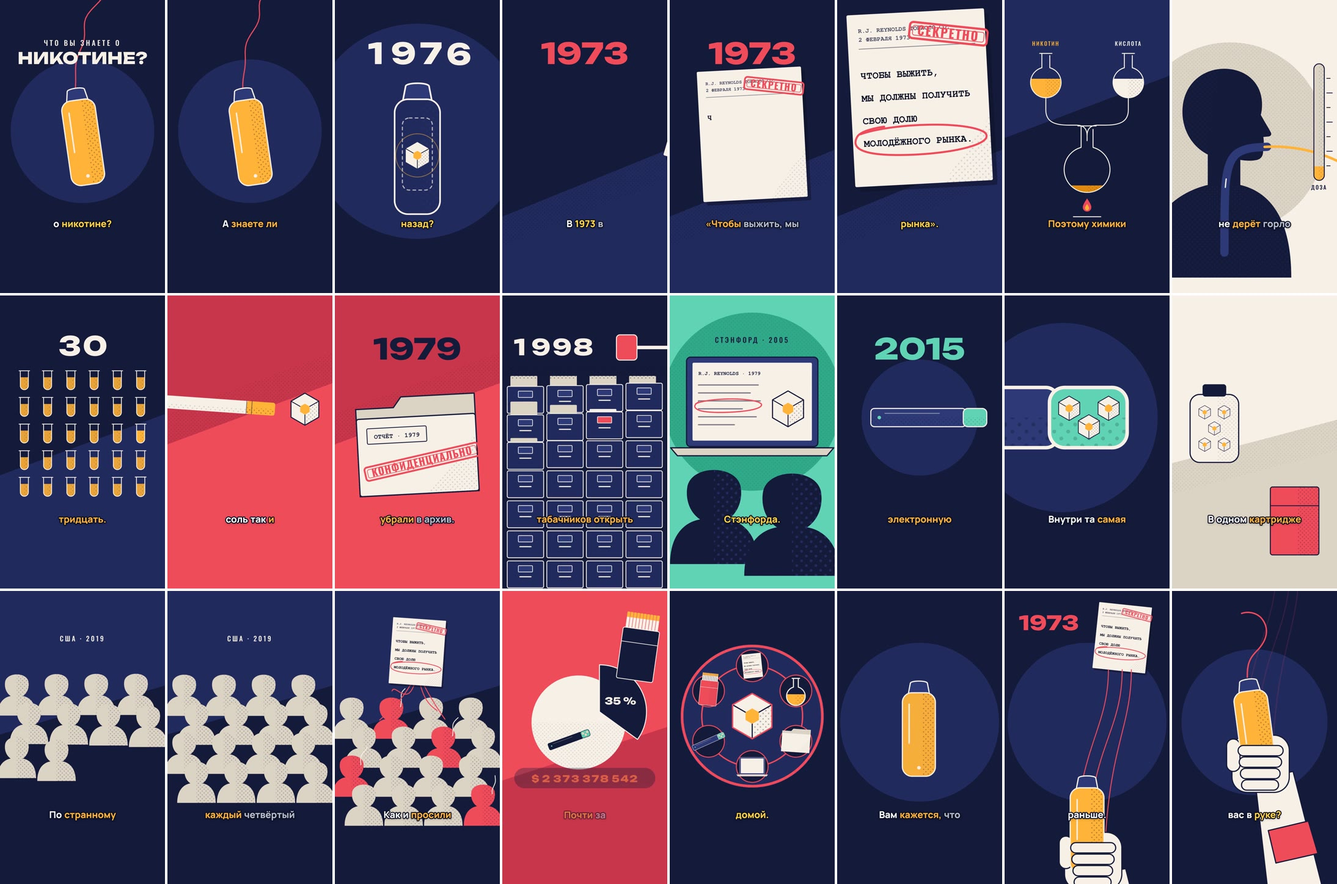
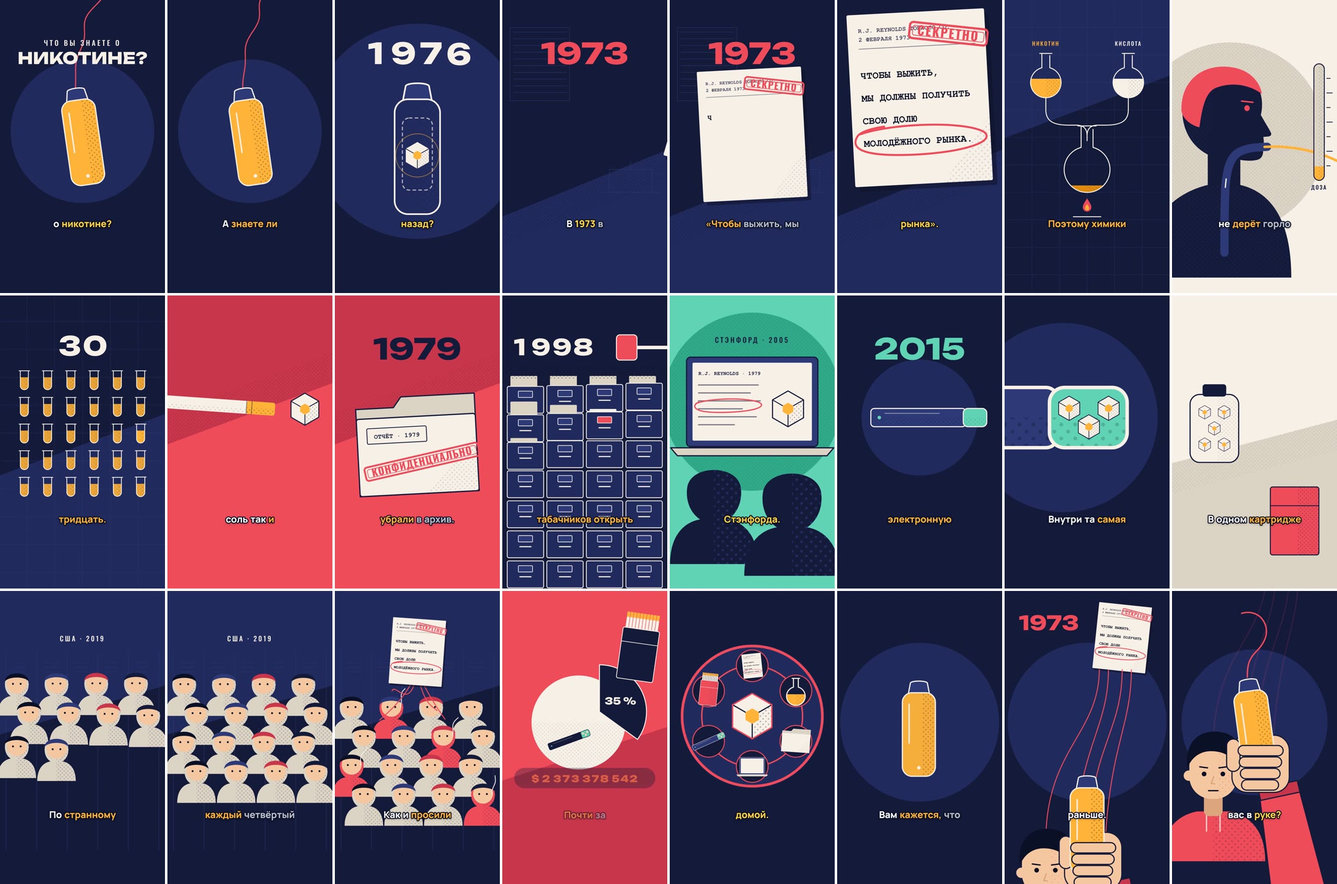
Ролики v11.2: по всем 13 оригиналам — герой с лицом, рука со штампом, место действия контуром, музыка без пауз
Claude-Session: https://claude.ai/code/session_011UjWN6ZJoZuZKvDiL5ZMJ5

diff --git a/ролики-v11/shorts/ep/nicf.js b/ролики-v11/shorts/ep/nicf.js
@@ -109,7 +109,7 @@
   function head(x, y, s, o = {}, t = 0) {
     const f = o.f || K.coral, ch = o.ch || K.navy;
     let q = fill(SHOULD, o.f2 || f) + clip(SHOULD, ht('M-380 760V300H330V760Z', o.dot || 'ink', .22)) + fill(PROF, f) + clip(PROF, ht('M-260 -260H-20L-90 330H-260Z', o.dot || 'ink', .2));
-    q += ln(AIR, 1, ch, 40) + (o.air || '');
+    q += ln(AIR, 1, ch, 40) + (o.air || '') + fill('M-196 -40C-200 -190 -90 -262 30 -250C120 -242 176 -190 190 -120C120 -170 40 -176 -30 -150C-80 -130 -96 -60 -110 40C-150 30 -190 0 -196 -40Z', o.hair || K.ink) + (o.eye ? fill(D_.ell(118, -52, 13, o.eye), o.hair || K.ink) + ln('M92 -86L146 -80', 1, o.hair || K.ink, 7) : '');
     return g(q, at(x, y, s, o.r || 0))
   }
   function zig(d, amp, n = 34) { const p = pts(d, n + 1); let s = ''; for (let i = 0; i < p.length; i++) { const a = p[Math.min(i + 1, p.length - 1)], b = p[Math.max(i - 1, 0)], dx = a[0] - b[0], dy = a[1] - b[1], l = Math.hypot(dx, dy) || 1, o = i % 2 ? amp : -amp; s += (i ? 'L' : 'M') + R(p[i][0] - dy / l * o) + ' ' + R(p[i][1] + dx / l * o) } return s }
@@ -121,6 +121,38 @@
     if (o.lv > 0) q += clip(body, fill(D_.rr(-r, r - 2 * r * o.lv, 2 * r, 2 * r, 0), o.liq || K.amber) + ht(D_.rr(0, -r, r, 2 * r, 0), 'ink', .22));
     q += ln(d, o.k ?? 1, o.c || K.paper, 6) + ln(`M${-r * .4} ${-r * 1.9}H${r * .4}`, o.k ?? 1, o.c || K.paper, 6);
     return g(q, at(x, y, 1, o.r || 0))
+  }
+
+  // ---------- по всем 13 оригиналам (10.11): герой с лицом, руки «в костюме», место действия контуром на фоне ----------
+  const SKIN = '#F4C7A1', SKIN2 = '#DDA57C';
+  // подросток по плечи, лицом к зрителю: o.h — худи, o.look — зрачки [-1…1, -1…1], o.m — рот: 0 ровно, 1 улыбка, -1 «о»
+  function teen(x, y, s = 1, o = {}) {
+    const body = 'M-200 330C-200 205 -135 152 -62 138H62C135 152 200 205 200 330Z', hd = D_.rr(-92, -124, 184, 214, 86), lk = o.look || [0, 0];
+    let q = fill(body, o.h || K.coral) + clip(body, ht('M0 100H210V340H0Z', 'ink', .22)) + ln('M-26 150V214M26 150V214', 1, K.paper, 5, { op: .8 });
+    q += fill(D_.rr(-36, 56, 72, 100, 20), SKIN2) + fill(D_.circ(-94, 0, 20), SKIN) + fill(D_.circ(94, 0, 20), SKIN) + fill(hd, SKIN) + clip(hd, ht('M20 -130H100V100H20Z', 'coral', .16));
+    q += fill('M-100 -30C-112 -150 -34 -178 28 -168C102 -158 114 -92 100 -24C84 -66 44 -98 -18 -94C-58 -90 -84 -66 -100 -30Z', o.hair || K.ink);
+    q += `<circle cx="${R(-36 + lk[0] * 5)}" cy="${R(-6 + lk[1] * 4)}" r="9" fill="${K.ink}"/><circle cx="${R(36 + lk[0] * 5)}" cy="${R(-6 + lk[1] * 4)}" r="9" fill="${K.ink}"/>` + ln('M-52 -34L-22 -30M22 -30L52 -34', 1, K.ink, 5) + ln('M2 4L-8 30L6 32', 1, SKIN2, 5);
+    q += o.m === -1 ? fill(D_.ell(0, 60, 11, 13), K.ink) : ln(o.m === 1 ? 'M-20 54C-8 66 8 66 20 54' : 'M-18 58H18', 1, K.ink, 5);
+    return g(q, at(x, y, s, o.r || 0))
+  }
+  // лицо для маленьких силуэтов BUST: волосы и глаза
+  const face = (hair = K.ink) => fill('M-75 -42C-72 -110 72 -110 75 -42C52 -76 -52 -76 -75 -42Z', hair) + `<circle cx="-24" cy="-28" r="6" fill="${K.ink}"/><circle cx="24" cy="-28" r="6" fill="${K.ink}"/>`;
+  // рука в костюме ставит штамп: опускается к t0, уходит вверх. (x, y) — куда бьёт
+  function stamper(x, y, t, t0) {
+    const dn = EZ.i(P01(t, t0 - .34, .34)), up = EZ.io(P01(t, t0 + .16, .45)); if (dn <= 0 || up >= 1) return '';
+    const q = sh('M40 -1100L300 -1100L196 -168L16 -190Z', K.ink, K.paper, 6) + sh('M12 -252L200 -230L188 -158L6 -180Z', K.paper, K.navy, 5) + sh(D_.rr(-36, -120, 150, 80, 20), K.coral2, K.navy, 6) +
+      sh(D_.rr(-74, -204, 236, 150, 62), SKIN, K.navy, 6) + ln('M-30 -150H110M-30 -110H110', 1, K.navy, 5, { op: .5 }) + sh(D_.rr(-96, -46, 270, 46, 10), K.navy, K.paper, 5);
+    return g(q, at(x, y - 1000 * (1 - dn) - 1000 * up, 1, 0))
+  }
+  // место действия тонким контуром на фоне (как кирпичи и облака у Starbucks и Хованского)
+  function ghost(kind, c = K.navy3, op = .55) {
+    let d = '';
+    if (kind === 'bricks') for (let i = 0; i < 16; i++) { const x = rnd(i) * 1000, y = 180 + rnd(i + 40) * 1500, w = 70 + rnd(i + 9) * 50; d += `M${R(x)} ${R(y)}h${R(w)}v34h${R(-w)}Z` + (i % 2 ? `M${R(x + w + 12)} ${R(y)}h${R(w * .6)}v34h${R(-w * .6)}Z` : '') }
+    if (kind === 'blinds') { for (let i = 0; i < 10; i++) d += `M70 ${210 + i * 44}H420`; d += 'M50 180H440V660H50ZM650 1260h380M700 1260v-150h280v150M840 1110v-60' }
+    if (kind === 'lockers') for (let i = 0; i < 6; i++) d += `M${40 + i * 200} 400V1700M${90 + i * 200} 470h80M${90 + i * 200} 500h80M${90 + i * 200} 530h80M${196 + i * 200} 900v60`;
+    if (kind === 'tiles') { for (let i = 1; i < 6; i++) d += `M${i * 180} 0V1920`; for (let i = 1; i < 11; i++) d += `M0 ${i * 180}H1080` }
+    if (kind === 'shelves') for (let i = 0; i < 2; i++) d += `M60 ${762 + i * 520}H1020M60 ${780 + i * 520}H1020M90 ${780 + i * 520}v40M990 ${780 + i * 520}v40`;
+    return `<path d="${d}" fill="none" stroke="${c}" stroke-width="4" stroke-linecap="round" opacity="${op}"/>`
   }
 
   // ================= БИТЫ =================
@@ -138,7 +170,7 @@
     const a = (rot) * Math.PI / 180, tipx = 540 + 252 * sc * Math.sin(a), tipy = vy - 252 * sc * Math.cos(a);
     if (zo < .5 && xr < .9) s += g(ln(smokeD(tipx, tipy, 700 * (1 - zo), t, 34, 210), E(t, .25, 1.1), K.coral, 7), '', (1 - zo * 2) * (1 - xr));
     const hk = t < .7 && window.NICF2H ? 1500 * EZ.i(P01(t, .08, .6)) : -1;
-    if (hk >= 0) s += g(NICF2H.back(), at(580, 920 + hk, 1.25, 0));
+    if (hk >= 0) s += teen(270, 1210 + hk, 1.7, { look: [0, 0] }) + g(NICF2H.back(), at(580, 920 + hk, 1.25, 0));
     s += vape(540, vy, sc, rot, { x: xr });
     if (hk >= 0) s += g(NICF2H.front(), at(580, 920 + hk, 1.25, 0));
     if (xr > .05) { const pk = (t * .9) % 1; s += `<circle cx="540" cy="${R(vy + 35)}" r="${R(60 + pk * 190)}" fill="none" stroke="${K.amber}" stroke-width="5" opacity="${R(xr * (1 - pk) * .8)}"/>` }
@@ -152,12 +184,12 @@
   // 2. «В табачной компании. Для молодых.» — коралл, сигарета больше кадра, дым тянется к трём силуэтам
   function bTob(t) {
     const q = Q, a = q.tob, k = E(t, a, .8, 'o'), m = E(t, q.mol - .15, .7);
-    let s = bgc(K.coral) + fill(D_.circ(760, 760, 430), K.coral2) + ht(D_.circ(760, 760, 430), 'ink', .16);
+    let s = bgc(K.coral) + ghost('bricks', K.coral2, .7) + fill(D_.circ(760, 760, 430), K.coral2) + ht(D_.circ(760, 760, 430), 'ink', .16);
     s += big('1973', 540, 420, K.navy, 190);
     const cx = lerp(1500, 640, k), cy = 800 - 60 * m;
     s += ln(smokeD(cx - 318 * 1.7 * Math.cos(-.14) - 0, cy + 318 * 1.7 * Math.sin(.14) - 30, 520, t, 40, -120 - 260 * m), E(t, a + .4, 1.2), K.paper, 8);
     s += cig(cx, cy, 1.7, -8, { ember: K.navy });
-    for (let i = 0; i < 3; i++) { const p = pop(t, q.mol - .1 + i * .13, .5); if (p > 0) s += g(fill(BUST, K.navy) + clip(BUST, ht('M-130 -110H0V180H-130Z', 'navy3', .5)), at(190 + i * 230, 1330 - 190 * p + i * 10, 1.3 - i * .1)) }
+    for (let i = 0; i < 3; i++) { const p = pop(t, q.mol - .1 + i * .13, .5); if (p > 0) s += g(fill(BUST, K.navy) + clip(BUST, ht('M-130 -110H0V180H-130Z', 'navy3', .5)) + fill(D_.circ(0, -30, 62), SKIN) + face(), at(190 + i * 230, 1330 - 190 * p + i * 10, 1.3 - i * .1)) }
     cue(a, 'wave', .7); cue(q.mol - .1, 'thud', .45);
     return cam(s, t, a, { z: .06, d: 3 })
   }
@@ -165,9 +197,10 @@
   function bMemo(t) {
     const q = Q, a = q.memo, k = E(t, q.rey - .25, .7, 'o'), n = MEMO_N * P01(t, q.quote + .05, Math.max(.8, q.quoteE - q.quote - .9)), rk = E(t, q.molR - .1, .7), zi = E(t, q.molR - .2, 1.2);
     let s = bgc(K.navy) + fill(D_.poly([[-200, 1500], [1280, 900], [1280, 2200], [-200, 2200]]), K.navy2) + ht(D_.poly([[-200, 1500], [1280, 900], [1280, 1100], [-200, 1700]]), 'ink', .3);
-    s += g(big('1973', 540, 420, K.coral, 190), '', 1 - zi);
+    s += g(ghost('blinds'), '', 1 - zi) + g(big('1973', 540, 420, K.coral, 190), '', 1 - zi);
     const mm = memo(lerp(1500, 540, k), lerp(700, 880, k), 1.22, lerp(16, -3, k), { n: t < q.quote ? 0 : n, ring: rk, st: q.sekr }, t);
     s += g(mm, about(540, 1010, 1 + .32 * zi) + ` translate(0 ${R(-150 * zi)})`);
+    s += stamper(700, 610, t, q.sekr);
     cue(q.rey - .25, 'swish', .6); cue(q.sekr, 'stamp', .9);
     for (let i = 0; i < 9; i++) cue(q.quote + .1 + i * (q.quoteE - q.quote - 1) / 9, 'tick', .3, (i % 3 - 1) * .3);
     cue(q.molR - .1, 'quill', .6);
@@ -176,11 +209,11 @@
   // 4. «Дым дерёт горло»: профиль, дым входит в рот и царапает
   function bHarsh(t) {
     const q = Q, a = q.harsh, k1 = E(t, a + .1, .8, 'io'), k2 = E(t, q.deret - .25, .6), shk = Math.sin(t * 46) * 7 * P01(t, q.deret, .12) * (1 - P01(t, q.deret + .5, .4));
-    let s = bgc(K.navy) + fill(D_.circ(380, 900, 620), K.navy2);
+    let s = bgc(K.navy) + fill(D_.circ(380, 900, 620), K.navy2) + ghost('bricks');
     const hx = 400 + shk, hy = 760, sc = 1.42;
     const inD = 'M1200 160C900 60 760 330 620 240C480 150 330 128 214 133';
     const air = ln(zig(AIR, 15), k2, K.coral, 9) + (k2 > .2 ? [0, 1, 2, 3].map(i => { const p = pts(AIR, 30)[8 + i * 5], kk = pop(t, q.deret + i * .07, .3); return kk > 0 ? ln(D_.star(p[0], p[1], 34 * kk, 12 * kk, 6, i * 17), 1, K.coral, 5) : '' }).join('') : '');
-    s += head(hx, hy, sc, { air }, t);
+    s += head(hx, hy, sc, { air, eye: k2 > .5 ? 4 : 14 }, t);
     s += g(ln(inD, k1, K.paper, 8), at(hx, hy, sc));
     if (k2 > .3) for (let i = 0; i < 5; i++) { const kk = P01(t, q.deret + .05 + i * .05, .35), ang = (-50 + i * 25) * Math.PI / 180, x0 = hx + 250 * sc * .62 + 40, y0 = hy + 250; if (kk > 0 && kk < 1) s += ln(`M${R(x0 + Math.cos(ang) * (60 + kk * 60))} ${R(y0 + Math.sin(ang) * (60 + kk * 60))}L${R(x0 + Math.cos(ang) * (110 + kk * 90))} ${R(y0 + Math.sin(ang) * (110 + kk * 90))}`, 1, K.coral, 7, { op: 1 - kk }) }
     cue(a + .1, 'puff', .5); cue(q.deret - .05, 'zap', .6);
@@ -189,7 +222,7 @@
   // 5. Лаборатория: никотин + кислота → по трубкам → кристалл соли
   function bLab(t) {
     const q = Q, a = q.lab, dk = E(t, a + .05, .9, 'o'), f1 = P01(t, q.nik - .15, .9), f2 = P01(t, q.kis - .35, .9), mix = E(t, q.kis + .15, .6), out = E(t, q.salt - .25, .7);
-    let s = bgc(K.navy) + fill(D_.poly([[-200, -200], [1280, -200], [1280, 420], [-200, 980]]), K.navy2);
+    let s = bgc(K.navy) + fill(D_.poly([[-200, -200], [1280, -200], [1280, 420], [-200, 980]]), K.navy2) + ghost('tiles', K.navy3, .3);
     const L1 = 'M270 640V720C270 800 330 820 420 820H470C520 820 540 846 540 890V930', L2 = 'M810 640V720C810 800 750 820 660 820H610C560 820 540 846 540 890V930';
     let gl = flask(270, 540, 100, { lv: .62 * (1 - f1 * .7), liq: K.amber, k: dk }) + flask(810, 540, 100, { lv: .62 * (1 - f2 * .7), liq: K.paper, k: dk }) +
       ln(L1, dk, K.paper, 6) + ln(L2, dk, K.paper, 6) + flow(L1, f1, K.amber, 12, 90) + flow(L2, f2, K.paper, 12, 90) + flask(540, 1110, 150, { lv: .15 + .5 * Math.max(f1, f2) * (1 - mix * .4), liq: mix > .5 ? K.paper2 : K.amber2, k: dk, c: K.paper }) +
@@ -209,7 +242,7 @@
     const q = Q, a = q.smooth, k1 = E(t, a + .15, 1.0), dz = E(t, q.doza - .9, 1.3, 'io');
     let s = bgc(K.paper) + fill(D_.circ(380, 900, 620), K.paper2) + ht(D_.circ(380, 900, 620), 'navy', .1);
     const air = ln(AIR, k1, K.amber, 12) + flow(AIR, (t * .8) % 1, K.paper, 6, 40);
-    s += head(330, 780, 1.36, { f: K.navy, ch: K.navy3, dot: 'navy3', air }, t);
+    s += head(330, 780, 1.36, { f: K.navy, ch: K.navy3, dot: 'navy3', air, hair: K.coral, eye: 14 }, t);
     s += g(ln('M1200 160C900 60 760 330 620 240C480 150 330 128 214 133', 1, K.amber, 12), at(330, 780, 1.36));
     const bx = 960, by0 = 1180, bh = 760;
     s += fill(D_.rr(bx - 34, by0 - bh, 68, bh, 34), K.paper2) + clip(D_.rr(bx - 34, by0 - bh, 68, bh, 34), fill(D_.rr(bx - 34, by0 - bh * (.12 + .88 * dz), 68, bh, 0), K.amber) + ht(D_.rr(bx, by0 - bh, 34, bh, 0), 'ink', .2)) + ln(D_.rr(bx - 34, by0 - bh, 68, bh, 34), 1, K.navy, 6);
@@ -222,7 +255,7 @@
   const APPLE = 'M0 -70C-40 -110 -130 -90 -130 0C-130 80 -70 130 -30 120C-12 116 -6 110 0 110C6 110 12 116 30 120C70 130 130 80 130 0C130 -90 40 -110 0 -70Z';
   function bTubes(t) {
     const q = Q, a = q.tubes, one = E(t, q.odin - .1, .5), ap = pop(t, q.yabl - .35, .55);
-    let s = bgc(K.navy) + fill(D_.poly([[-200, 2200], [-200, 1250], [1280, 700], [1280, 2200]]), K.navy2);
+    let s = bgc(K.navy) + fill(D_.poly([[-200, 2200], [-200, 1250], [1280, 700], [1280, 2200]]), K.navy2) + ghost('tiles', K.navy3, .3);
     const cnt = 30 * P01(t, a + .15, Math.max(.6, q.t30 - a + .1)), HOT = 17;
     for (let i = 0; i < 30; i++) {
       const c = i % 6, r = Math.floor(i / 6), x = 165 + c * 150, y = 560 + r * 172, p = pop(cnt, i, 1.2); if (p <= 0) continue;
@@ -241,7 +274,7 @@
   }
 
   D._ = frame;
-  window.NICF = { K, B, beat, frame, cue, bgc, ln, sh, ht, clip, hexD, pop, lab, big, flow, smokeD, cam, vape, crystal, cig, memo, head, flask, BUST, PROF, MONO, AIR, zig, APPLE,
+  window.NICF = { SKIN, SKIN2, teen, face, stamper, ghost, K, B, beat, frame, cue, bgc, ln, sh, ht, clip, hexD, pop, lab, big, flow, smokeD, cam, vape, crystal, cig, memo, head, flask, BUST, PROF, MONO, AIR, zig, APPLE,
     beats: { bHook, bTob, bMemo, bHarsh, bLab, bSmooth, bTubes }, setQ: q => { Q = q }, getQ: () => Q };
   window.EP = {
     P, D, clean: true, lead: .1, tr: {}, trDef: 'cut',

diff --git a/ролики-v11/shorts/ep/nicf2.js b/ролики-v11/shorts/ep/nicf2.js
@@ -2,7 +2,7 @@
 // Азбука и предметы — из ep/nicf.js (window.NICF). Грузится после него (stage.html: loadEp).
 (function () {
   'use strict';
-  const { K, beat, cue, bgc, ln, sh, ht, clip, hexD, pop, lab, big, flow, smokeD, cam, vape, crystal, cig, memo, flask, BUST, MONO } = NICF;
+  const { SKIN, SKIN2, teen, face, stamper, ghost, K, beat, cue, bgc, ln, sh, ht, clip, hexD, pop, lab, big, flow, smokeD, cam, vape, crystal, cig, memo, flask, BUST, MONO } = NICF;
   let Q = null;
 
   // ---------- предметы ----------
@@ -33,8 +33,8 @@
   const MANGO = 'M-110 0C-118 -80 -40 -130 30 -110C110 -88 140 -10 110 60C80 120 -20 130 -70 90C-96 70 -106 40 -110 0Z';
   const mango = (x, y, s, r = 0) => s <= 0 ? '' : g(fill(MANGO, K.amber) + clip(MANGO, ht('M10 -140H150V140H10Z', 'ink', .22)) + ln('M-60 -40C-40 -76 0 -90 30 -84', 1, K.paper, 7) + fill(D_.leaf(36, -108, 90, 28, -24), K.mint) + ln('M28 -104C36 -122 40 -128 46 -136', 1, K.mint2, 7), at(x, y, s, r));
   // рука держит одноразку: back — ладонь и предплечье (за предметом), front — пальцы (перед предметом)
-  function handBack(c = K.navy) { return sh('M-30 250L170 210L420 1200H80Z', K.paper, c, 6) + sh('M40 520L250 470L300 640L80 690Z', K.coral, c, 6) + sh(D_.rr(-150, 20, 300, 300, 80), K.paper, c, 6) + sh(D_.rr(-178, 40, 70, 170, 35), K.paper, c, 6) }
-  function handFront(c = K.navy) { let q = ''; for (let i = 0; i < 4; i++) q += sh(D_.rr(-118 + i * 6, 74 + i * 60, 236 - i * 14, 54, 27), K.paper, c, 6); return q }
+  function handBack(c = K.navy) { return sh('M-10 300L190 260L440 1200H100Z', K.coral, c, 6) + sh('M-14 300L192 258L206 318L0 362Z', K.coral2, c, 6) + sh(D_.rr(-150, 20, 300, 300, 80), SKIN, c, 6) + sh(D_.rr(-178, 40, 70, 170, 35), SKIN, c, 6) }
+  function handFront(c = K.navy) { let q = ''; for (let i = 0; i < 4; i++) q += sh(D_.rr(-118 + i * 6, 74 + i * 60, 236 - i * 14, 54, 27), SKIN, c, 6); return q }
 
   // ================= БИТЫ =================
   // 8. Соль в сигареты не попала → 1979: отчёт в папку, штамп, в архив
@@ -50,6 +50,7 @@
       s += g(folder(540, fy, 1.3, -3, { inner, top: stamp('КОНФИДЕНЦИАЛЬНО', 20, 70, t, q.zasek - .05, { c: K.coral, s: 52, r: -10, ls: 3 }) }), about(540, 1000, 1 - .62 * go) + ` translate(${R(700 * go)} ${R(-240 * go)})`, 1);
       s += g(big('1979', 540, 420, K.navy, 190), '', clamp(fo * 2) * (1 - go));
     }
+    s += stamper(566, 1130, t, q.zasek - .05);
     cue(a + .1, 'swish', .5); cue(q.nep - .2, 'thud', .6); cue(q.zasek - .05, 'stamp', 1); cue(q.arch - .4, 'whoosh', .5);
     return s
   }
@@ -125,12 +126,12 @@
   const HOT = [1, 6, 8, 15];
   function bTeens(t) {
     const q = Q, a = q.teens, hk = P01(t, q.chetv - .1, .9), mk = E(t, q.rynok - .15, .7, 'o'), rk = E(t, q.rynok + .25, .6), thr = P01(t, q.zap2 - .7, .9), dn = 150 * mk;
-    let s = bgc(K.navy) + fill(D_.poly([[-200, -200], [1280, -200], [1280, 560], [-200, 1000]]), K.navy2), th = '';
+    let s = bgc(K.navy) + fill(D_.poly([[-200, -200], [1280, -200], [1280, 560], [-200, 1000]]), K.navy2) + ghost('lockers', K.navy3, .5), th = '';
     s += g(lab('США · 2019', 540, 330, K.paper, 44, { ls: 10 }), '', (1 - mk) * clamp((t - a) * 3));
     for (let i = 0; i < 16; i++) {
       const c = i % 4, r = Math.floor(i / 4), x = 150 + c * 260 + (r % 2 ? 40 : -40), y = 640 + r * 190 + dn, p = pop(t, a + .1 + i * .035, .4); if (p <= 0) continue;
       const hi = HOT.indexOf(i), hot = hi >= 0 ? clamp(hk * 4 - hi * .8) : 0;
-      s += g(fill(BUST, hot > .5 ? K.coral : K.paper2) + clip(BUST, ht('M0 -110H130V180H0Z', hot > .5 ? 'ink' : 'navy', .3)), at(x, y + 60 * (1 - p), 1.05 * (1 + .12 * Math.sin(Math.PI * clamp(hot)))));
+      s += g(fill(BUST, hot > .5 ? K.coral : K.paper2) + clip(BUST, ht('M0 -110H130V180H0Z', hot > .5 ? 'ink' : 'navy', .3)) + fill(D_.circ(0, -30, 62), SKIN) + face([K.ink, K.navy3, K.coral2, K.navy][i % 4]), at(x, y + 60 * (1 - p), 1.05 * (1 + .12 * Math.sin(Math.PI * clamp(hot)))));
       if (hot > .5) { s += ln(smokeD(x + 60, y - 30, 120, t + i, 14, 30, 10), clamp(hot * 2 - 1), K.paper, 5); if (thr > 0) th += ln(`M540 520C${540 + (x - 540) * .3} ${700 + dn} ${x} ${y - 260} ${x} ${y - 96}`, clamp(thr * 1.6 - hi * .15), K.coral, 6) }
     }
     if (mk > 0) s += th + memo(540, lerp(-500, 400, mk), .62, lerp(-14, 4, mk), { ring: rk, st: true }, t);
@@ -171,6 +172,7 @@
   function bYou(t) {
     const q = Q, a = q.you, one = E(t, q.kazh - .2, .8), hd = E(t, q.vybr - .35, .7, 'o'), st = P01(t, q.no - .1, .7), up = E(t, q.ran - .15, .9) - E(t, q.nuchto - .35, .9), fin = E(t, q.vruke - .1, .9), pan = 720 * up;
     let s = bgc(K.navy) + fill(D_.circ(540, 860, lerp(520, 470, fin)), K.navy2);
+    s += g(ghost('shelves', K.navy3, .7), '', 1 - one);
     // полка: 8 одноразок, в 7 — соль
     if (one < 1) for (let i = 0; i < 8; i++) {
       if (i === 5) continue; const c = i % 4, r = Math.floor(i / 4), x = 165 + c * 250, y = 600 + r * 520, p = pop(t, a + .05 + i * .05, .4), has = i !== 2, kx = has ? clamp((t - (q.sol - .2) - i * .07) * 3) : 0;
@@ -183,12 +185,13 @@
     if (up > 0 || st > 0) {
       w += g(big('1973', 290, -380, K.coral, 130) + memo(770, -330, .62, 6, { ring: 1, st: true }, t), '', clamp(up * 3 + .001));
       const k3 = EZ.io(st), sway = wob(t, .35, 10);
-      [[-90, 330, 680], [10, 150, 770], [110, 420, 830]].forEach(([dx, hy, x0], i) => { w += ln(`M${x0} -120C${x0 + sway} 300 ${vx + dx - sway} 400 ${vx + dx} ${vy + hy}`, clamp(k3 * 1.3 - i * .12), K.coral, 6, { op: 1 - fin }) });
+      [[-90, 330, 680], [10, 150, 770], [110, 420, 830], [-270, 100, 620]].forEach(([dx, hy, x0], i) => { w += ln(`M${x0} -120C${x0 + sway} 300 ${vx + dx - sway} 400 ${vx + dx} ${vy + hy}`, clamp(k3 * 1.3 - i * .12), K.coral, 6, { op: 1 - fin }) });
     }
     // рука + одноразка (i = 5 — «наша»)
     const p5 = pop(t, a + .3, .4), hy = 1500 * (1 - hd);
     let hv = '';
-    if (hd > 0) hv += g(NICF2H.back(), at(vx + 40, vy + 20 + hy, vs / 1.3 * 1.25, 0));
+    const lk = [1 - up - fin, -.7 - .3 * up + .7 * fin];
+    if (hd > 0) hv += teen(270, 1210 + hy, 1.7, { look: lk, m: st > .5 && fin < .5 ? -1 : 0 }) + g(NICF2H.back(), at(vx + 40, vy + 20 + hy, vs / 1.3 * 1.25, 0));
     hv += vape(vx, vy, vs * (one > 0 ? 1 : p5), vr, { x: 1 - one, f: K.amber, in: K.navy3 });
     if (hd > 0) hv += g(NICF2H.front(), at(vx + 40, vy + 20 + hy, vs / 1.3 * 1.25, 0));
     const mgp = pop(t, q.mango2 - .3, .5) * (1 - E(t, q.no - .2, .4));

diff --git a/ролики-v11/shorts/sound11.py b/ролики-v11/shorts/sound11.py
@@ -4,8 +4,9 @@
 #   • трек играл ровно весь ролик — тезис, штамп и финал в музыке не слышны; 30 тихих звуков сливались в шорох.
 # Что делает этот файл с тем же треком Eleven Music (music/nics-raw.mp3 или music/<ep>-raw.mp3):
 #   1) до тезиса музыка «за стеной» (срезаны верха) → на «В табачной компании» открывается, входит бас (сильная доля) + удар;
-#   2) на штампе «Конфиденциально» — удар и полсекунды тишины, дальше музыка глухая (отчёт лежит в архиве) → на «открыть архивы» раскрывается;
-#   3) перед «домой» — провал 0,4 с, на слове — удар трека + низкий «бум»;
+#   2) на штампе «Конфиденциально» — удар, музыка на полсекунды приседает (до 30 %), дальше глухая (отчёт в архиве) → на «открыть архивы» раскрывается;
+#   3) перед «домой» — музыка приседает на 0,4 с, на слове — удар трека + низкий «бум»;
+#   Полной тишины нет нигде: замер 13 оригиналов (10.11) — ни одной паузы в музыке длиннее 0,25 с, перепад громкости 7–12 дБ.
 #   4) на финальном вопросе музыка уходит вниз и тише: вопрос звучит почти в тишине, последний звук — хвост, под петлю.
 #   Звуки: 5 «главных» (штамп ×2, молоток судьи, «домой», «в семьдесят третьем») в полную громкость, остальные — вполголоса и не чаще раза в 0,3 с.
 import json, os, sys, subprocess
@@ -88,8 +89,8 @@ def direct(y, an):
     mp = [(0, .75), (A['claim'], .75), (A['tob'] - .05, .25), (A['tob'], 0), (A['stamp'], 0), (A['stamp'] + .05, 1), (A['open'] - .5, 1), (A['open'] + .5, 0),
           (A['q'] - .6, 0), (A['q'], .8), (A['dur'] + 1, .9)]
     # громкость
-    gp = [(0, 0), (.25, .9), (A['claim'], .9), (A['tob'] - .06, 1.05), (A['tob'], 1), (A['stamp'], 1), (A['stamp'] + .06, 0), (A['stamp'] + .5, 0), (A['stamp'] + .9, .85),
-          (A['open'] - .2, .85), (A['open'] + .5, 1), (A['home'] - .5, 1), (A['home'] - .38, 0), (A['home'] - .05, 0), (A['home'], 1.1), (A['home'] + 2.5, .95),
+    gp = [(0, 0), (.25, .9), (A['claim'], .9), (A['tob'] - .06, 1.05), (A['tob'], 1), (A['stamp'], 1), (A['stamp'] + .06, .3), (A['stamp'] + .5, .3), (A['stamp'] + .9, .85),
+          (A['open'] - .2, .85), (A['open'] + .5, 1), (A['home'] - .5, 1), (A['home'] - .38, .3), (A['home'] - .05, .3), (A['home'], 1.1), (A['home'] + 2.5, .95),
           (A['s73'] + .9, .95), (A['q'], .6), (A['qe'], .5), (A['qe'] + .5, .42), (A['dur'], .25), (A['dur'] + 1, .25)]
     m = np.interp(t, *zip(*mp)); gg = np.interp(t, *zip(*gp))
     return (y * (1 - m)[:, None] + dull * m[:, None]) * gg[:, None]

diff --git a/ролики-v11/ПЛАН-FABLE-v11.md b/ролики-v11/ПЛАН-FABLE-v11.md
@@ -7,7 +7,7 @@
 **Перенос:** скопировать `ролики-v11/shorts/*` поверх `dota-/shorts/` (файлы `scripts.py`, `stage.html`, `audio.py`, `voice.py` — целиком новые версии,
 старые ролики в них не тронуты, добавлен только `nicf`).
 
-Превью без голоса ушло Андрею файлом (`nikotin-v11-prevyu-bez-golosa.mp4`, 89 с). Кадры — `кадры-v11.jpg` рядом с этим файлом.
+Превью без голоса ушло Андрею файлом (`nikotin-v11-2-prevyu-bez-golosa.mp4`, 89 с; вторая версия — после просмотра всех оригиналов). Кадры — `кадры-v11.jpg` рядом с этим файлом.
 
 ## 1. Что было не так в v10 (смотрел кадры трёх роликов и оригиналы Google, Coca-Cola)
 
@@ -15,9 +15,25 @@
 |---|---|---|---|
 | Рисовка | `nicsb` — три стиля в одном ролике (мультяшные лица, детальная машинка, плоские иконки); `nicsc` — предмет по центру на голом фоне | один язык: 3 цвета + акцент, тонкая линия + плоская заливка, растр точками, формы крупнее кадра | один язык на все 16 сцен |
 | Смена сцен | «переходы» между картинками | цветовое поле заливает кадр | волна, диагональ, круг из предмета — цветом следующей сцены |
-| Музыка | один трек ровно весь ролик | на тезисе и повороте музыка меняется | тот же трек, но глухо → открыто, тишина после штампа, провал перед «домой» |
+| Музыка | один трек ровно весь ролик | идёт без пауз, перепад громкости 7–12 дБ | тот же трек, но глухо → открыто по сюжету, удары на тезисе, штампе и «домой» |
 | Звуки | 30+ тихих, шорох | 1–4 заметных | 7 главных в полную, остальные вполголоса |
 | Финал | «Она ведь и сейчас у вас в руке?» — вопрос с «ведь» читается ровно | «Ну что, вы всё ещё хотите…?» | «Ну что, она и сейчас у вас в руке?» + проверка подъёма голоса |
+
+## 1а. Все 13 оригиналов, не только Coca-Cola (Андрей: «не только кока-колу, а все референсы»)
+
+Посмотрел кадры всех 13 роликов и тизера (ветка `zai/референс-что-вы-знаете-о-09.11`), в музыке замерил паузы и перепады громкости.
+
+| Что общее у всех | Где видно | Что поменял в v11 |
+|---|---|---|
+| У каждого ролика своя палитра из 2–4 цветов, но рисовок две: тонкая линия на тёмном (Starbucks, Хованский, Мадонна, Coca-Cola) и плоская картинка с местом действия (Google, Apple, да Винчи, Instagram, MDK, Санта, Tinder, WoT) | все | v11 остаётся в первой: линия + заливка на тёмно-синем |
+| Почти везде есть герой с лицом — взрослая стилизация, не мультяшка | Apple (покупатель), Tinder (пара), Instagram (парень), Санта (мальчик), Соболев, Хованский, Мадонна, да Винчи | было «людей с лицами нет» — добавил подростка: первый и последний кадр, финал с нитями; лица у школьников; глаз и волосы у профиля |
+| Руки «в костюме» делают дело | Google (рука с перстнями несёт ПЛАН), Apple (чип), Instagram | рука в пиджаке ставит оба штампа — «Секретно» и «Конфиденциально» |
+| На фоне — место действия тонким контуром | Starbucks и Хованский (кирпичи, облака, полки) | контуры: кабинет с жалюзи, кирпичи, кафель лаборатории, шкафчики школы, полки магазина |
+| Крупные цифры в кадре | Starbucks «24», «6.66», Соболев «75 %», Apple «$50 000 000 000» | уже было: годы, 1 200 000 000, 30, 20, 35 %, $12 800 000 000 |
+| Музыка идёт без единой паузы | все 13: пауз длиннее 0,25 с — ноль, перепад громкости 7–12 дБ | убрал свои полные паузы после штампа и перед «домой» — теперь музыка приседает до 30 %, а не обрывается |
+
+Чего в v11 всё ещё меньше, чем у оригиналов: мест действия целой картинкой (комната, улица, замок) — у нас в основном предмет на цветном поле.
+Если Андрею захочется «как Google / Instagram» — это вторая рисовка, отдельный ролик.
 
 ## 2. Сделано
 
@@ -30,14 +46,14 @@
   - Источники новых фактов — в комментарии над `S['nicf']`. Проверка шаблонов нейронки (`python3 scripts.py nicf-ru`) — чисто.
 - [x] **Рисовка v11** — `ep/nicf.js` + `ep/nicf2.js` (без `v5.js`/`v8.js`, только `lib.js`):
   - цвета: тёмно-синий, коралл, бумага; янтарь — только никотин и манго; мята — только «новое время» (Стэнфорд, «Джул», яблоко);
-  - людей с лицами нет: профиль, силуэты со спины, рука;
+  - герой — подросток с лицом (первый и последний кадр, финал); у школьников лица; рука в пиджаке ставит штампы; студенты — со спины;
   - соль — один значок на весь ролик: белый кубик с янтарным ядром (в одноразке, в колбе, в папке, в картридже, в центре круга);
   - красная линия идёт через ролик: дым → обводка «молодёжного рынка» → царапины в горле → сноска в патенте → нити к школьникам → круг «домой» → нити к руке;
   - финал: нити от руки тянутся вверх к записке 1973 — «вас выбрали раньше».
 - [x] **Музыка и звуки** — `sound11.py`, подключён в `audio.py` (`DIR11`). Тот же трек Eleven Music (`music/nics-raw.mp3`), но:
   - до тезиса глухо, на «В табачной компании» — нарастание, удар, входит бас;
-  - на «Конфиденциально» — удар и полсекунды тишины, потом глухо (отчёт в архиве), на «открыть архивы» раскрывается;
-  - перед «домой» провал 0,4 с, на слове — удар;
+  - на «Конфиденциально» — удар, музыка на полсекунды приседает, потом глухо (отчёт в архиве), на «открыть архивы» раскрывается;
+  - перед «домой» музыка приседает на 0,4 с, на слове — удар; полной тишины нет нигде (как у оригиналов);
   - на финальном вопросе музыка уходит вниз: вопрос почти в тишине.
   - Удары и нарастания считаются в коде. Сведение без голоса: −14,6 LUFS.
 - [x] **Интонация** — `intonation.py`: меряет высоту голоса и пишет по каждому вопросу «вопрос слышен / слабо / ровно». Список вопросов — `scripts.QUESTIONS`.
@@ -83,6 +99,7 @@ node capture.mjs nicf-ru cues 20 && DELIVER=/home/user/wdyk/deliver11 ./make.sh 
 
 1. Рисовка — заходит ли такой стиль целиком (если да — остальные ролики делаются на тех же `ep/nicf.js` предметах).
 2. Музыка: слышны ли повороты (тезис ≈ 0:10, штамп ≈ 0:38, «домой» ≈ 1:17, финал).
+   Трек всё тот же, из v9: если плоха сама мелодия — нужен новый трек (задание в разделе 3).
 3. Длина 89 с — по черновому таймингу; с Максом на скорости 1.05 выйдет ≈ 85 с. Короче — убирать фразу про яблоко или про сделку.
 
 ## 5. Что я не проверял
